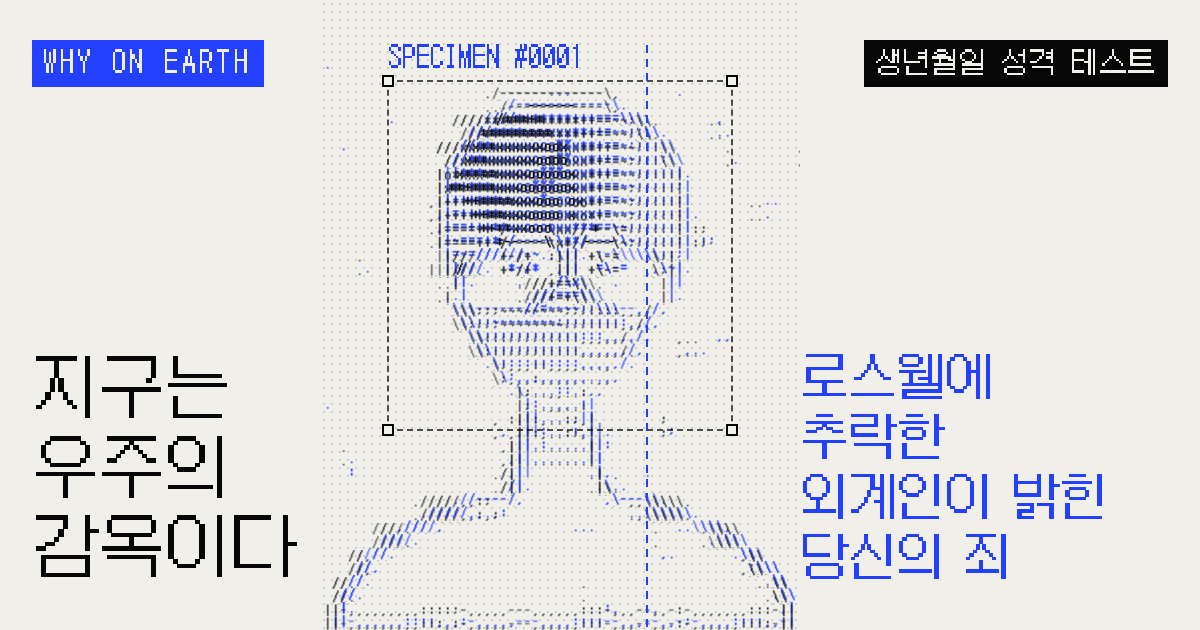
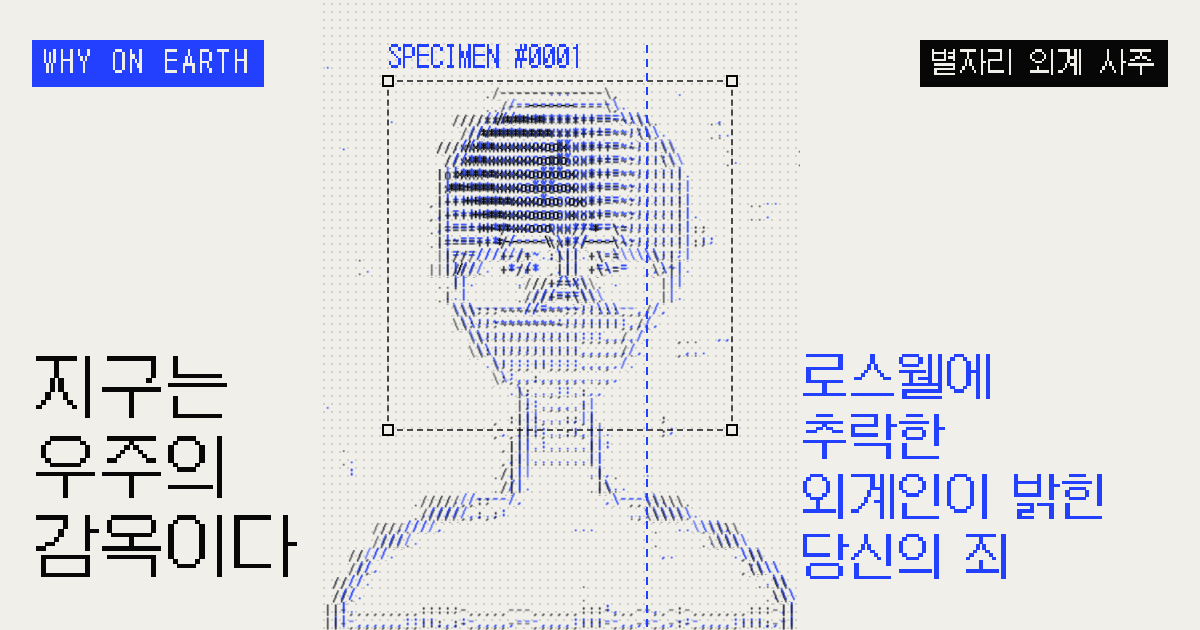
Call the preview tag a zodiac reading
"생년월일 성격 테스트" was vague; the species is picked by zodiac sign, so the
tag now reads "별자리 외계 사주".

Changed region(s): [[0.7092, 0.0603, 0.9558, 0.1508]]

diff --git a/src/Gallery.tsx b/src/Gallery.tsx
@@ -57,7 +57,7 @@ export function Gallery() {
 
 // The main page as a link preview: a paper sheet with one big specimen in the middle, drawn
 // in dark ink inside a dashed annotation box. The copy names the premise (a prison planet), the
-// Roswell hook and what this is (a birthday personality test).
+// Roswell hook and what this is (a zodiac reading).
 // Chat apps show it at 300-450px wide, so there is no grain or glow and nothing under 28px.
 function OgImage() {
   const handle = 'absolute h-[12px] w-[12px] border-2 border-ink bg-paper'
@@ -87,7 +87,7 @@ function OgImage() {
         </div>
       </div>
       <div className="flex w-[400px] flex-col items-end justify-between py-10 pr-8">
-        <span className="bg-ink px-3 py-1 font-mono text-[28px] leading-[1.4] text-paper">생년월일 성격 테스트</span>
+        <span className="bg-ink px-3 py-1 font-mono text-[28px] leading-[1.4] text-paper">별자리 외계 사주</span>
         {/* Galmuri has no bold cut: a 1px same-color shadow thickens the strokes. */}
         <p className="self-start font-big text-[48px] leading-[1.25] whitespace-nowrap text-plate" style={{ textShadow: '1px 0 0 currentColor' }}>
           로스웰에
